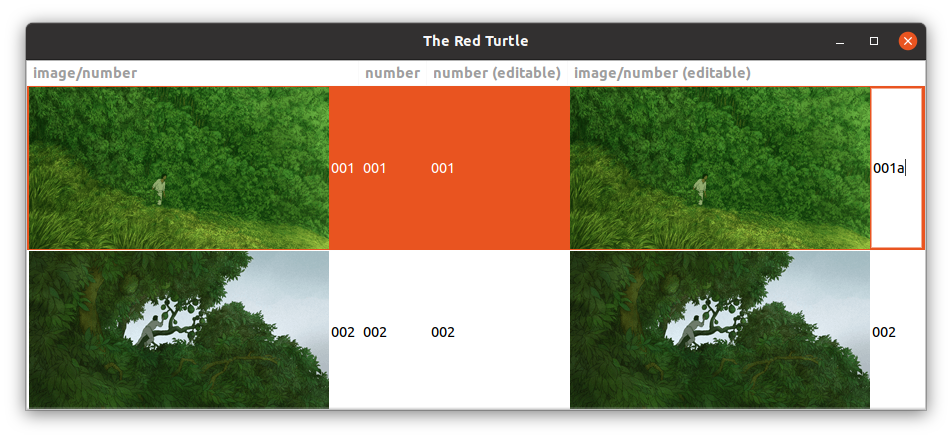
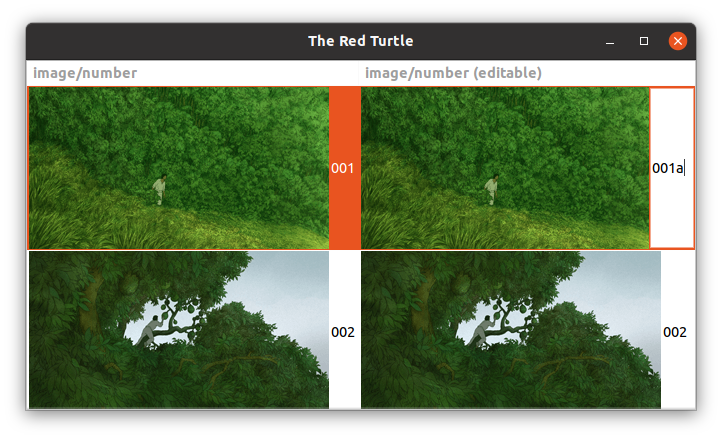
Simplify examples/basic_table_image_text.rb

diff --git a/examples/basic_table_image_text.rb b/examples/basic_table_image_text.rb
@@ -24,19 +24,15 @@ IMAGE_ROWS = []
     image_part(data, width, height, width * 4)
   }
   text = url.sub('https://www.ghibli.jp/gallery/thumb-redturtle', '').sub('.png', '')
-  IMAGE_ROWS << [[img, text], text, text, [img, text]]
+  IMAGE_ROWS << [[img, text], [img, text]] # cell values are dual-element arrays
 rescue StandardError => e
   warn url, e.message
 end
 
-window('The Red Turtle', 900, 350) {
+window('The Red Turtle', 670, 350) {
   horizontal_box {
     table {
       image_text_column('image/number')
-      text_column('number')
-      text_column('number (editable)') {
-        editable true
-      }
       image_text_column('image/number (editable)') {
         editable true
       }

diff --git a/README.md b/README.md
@@ -1,4 +1,4 @@
-# [<img src="https://raw.githubusercontent.com/AndyObtiva/glimmer/master/images/glimmer-logo-hi-res.png" height=85 />](https://github.com/AndyObtiva/glimmer) Glimmer DSL for LibUI 0.0.22
+# [<img src="https://raw.githubusercontent.com/AndyObtiva/glimmer/master/images/glimmer-logo-hi-res.png" height=85 />](https://github.com/AndyObtiva/glimmer) Glimmer DSL for LibUI 0.0.23
 ## Prerequisite-Free Ruby Desktop Development GUI Library
 [![Gem Version](https://badge.fury.io/rb/glimmer-dsl-libui.svg)](http://badge.fury.io/rb/glimmer-dsl-libui)
 [![Maintainability](https://api.codeclimate.com/v1/badges/ce2853efdbecf6ebdc73/maintainability)](https://codeclimate.com/github/AndyObtiva/glimmer-dsl-libui/maintainability)
@@ -43,7 +43,7 @@ Other [Glimmer](https://rubygems.org/gems/glimmer) DSL gems you might be interes
 
 ## Table of Contents
 
-- [Glimmer DSL for LibUI 0.0.22](#-glimmer-dsl-for-libui-0022)
+- [Glimmer DSL for LibUI 0.0.23](#-glimmer-dsl-for-libui-0023)
   - [Glimmer GUI DSL Concepts](#glimmer-gui-dsl-concepts)
   - [Usage](#usage)
   - [API](#api)
@@ -162,7 +162,7 @@ gem install glimmer-dsl-libui
 Or install via Bundler `Gemfile`:
 
 ```ruby
-gem 'glimmer-dsl-libui', '~> 0.0.22'
+gem 'glimmer-dsl-libui', '~> 0.0.23'
 ```
 
 Add `require 'glimmer-dsl-libui'` at the top, and then `include Glimmer` into the top-level main object for testing or into an actual class for serious usage.
@@ -2225,19 +2225,15 @@ IMAGE_ROWS = []
     image_part(data, width, height, width * 4)
   }
   text = url.sub('https://www.ghibli.jp/gallery/thumb-redturtle', '').sub('.png', '')
-  IMAGE_ROWS << [[img, text], text, text, [img, text]]
+  IMAGE_ROWS << [[img, text], [img, text]] # cell values are dual-element arrays
 rescue StandardError => e
   warn url, e.message
 end
 
-window('The Red Turtle', 900, 350) {
+window('The Red Turtle', 670, 350) {
   horizontal_box {
     table {
       image_text_column('image/number')
-      text_column('number')
-      text_column('number (editable)') {
-        editable true
-      }
       image_text_column('image/number (editable)') {
         editable true
       }
